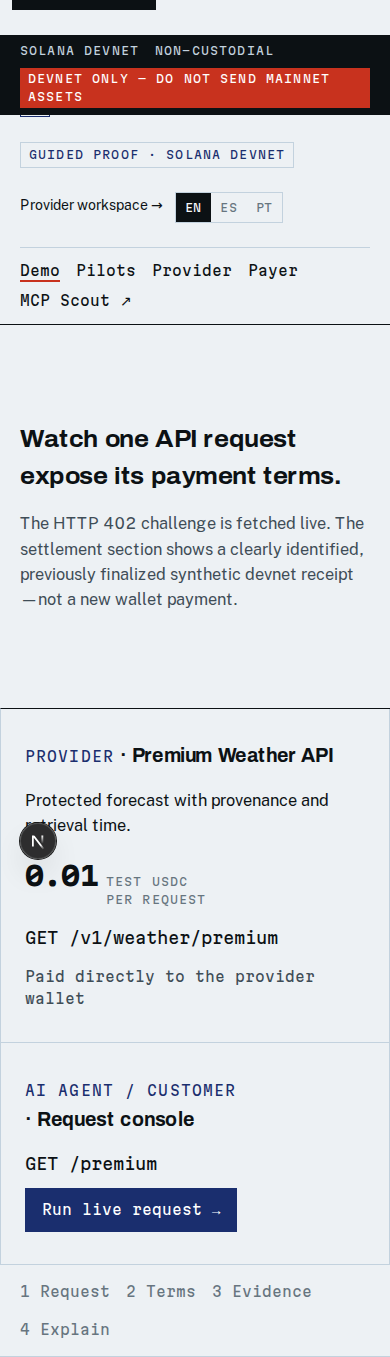
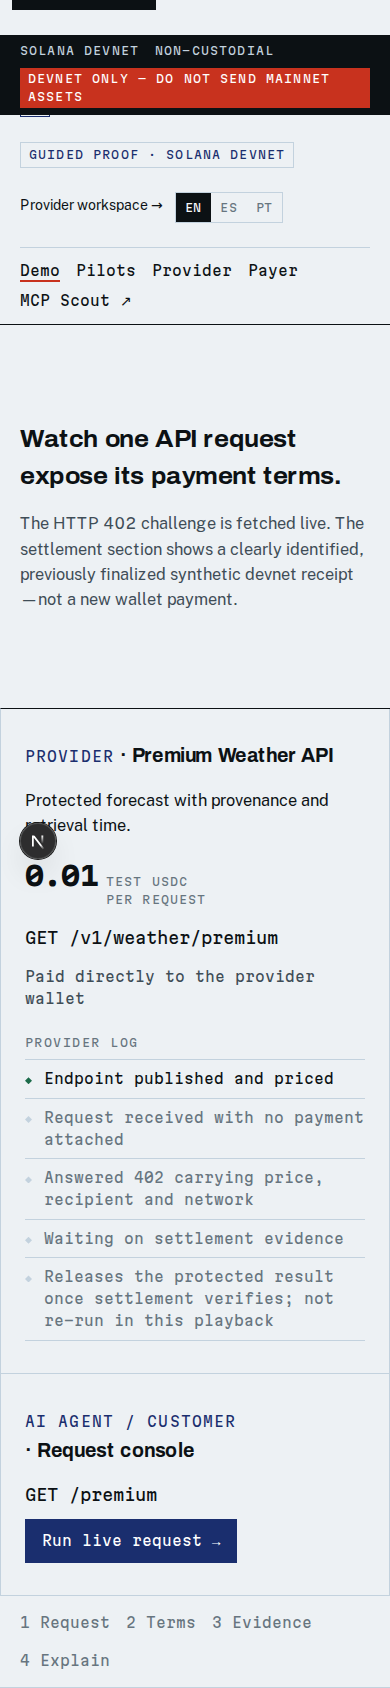
feat(demo): give the provider its half of the exchange
The walkthrough presented a two-party protocol while only one party carried
state: the agent pane accumulated phases and the provider pane stayed a
static description, leaving roughly 600px of empty field beside it at
desktop. The emptiness was the symptom; the missing half was the cause.

The provider pane now runs its own log of the same exchange — published,
request received unpaid, answered 402, waiting on settlement, releases on
verification. Each line is gated on real state rather than an assumed
timeline, so an error after the 402 correctly leaves the answered line lit.

The final line names what the provider does (release on verified settlement)
instead of restating the agent's receipt match, which would have said the
same thing twice on one screen, and carries the playback caveat so the pane
never implies a fresh release.

Panes now measure equal height at 1440; the demo still stacks cleanly at 390.

Changed region(s): [[0.0, 0.0, 1.0, 0.9904], [0.9846, 0.4333, 1.0, 0.5262], [0.9846, 0.9285, 1.0, 0.9595]]

diff --git a/apps/web/app/demo/page.tsx b/apps/web/app/demo/page.tsx
@@ -69,6 +69,14 @@ const copy = {
     error: "The proof could not be completed.",
     retry: "Retry",
     steps: ["1 Request", "2 Terms", "3 Evidence", "4 Explain"],
+    log: "Provider log",
+    logLines: [
+      "Endpoint published and priced",
+      "Request received with no payment attached",
+      "Answered 402 carrying price, recipient and network",
+      "Waiting on settlement evidence",
+      "Releases the protected result once settlement verifies; not repeated in this playback",
+    ],
   },
   es: {
     badge: "Prueba guiada · Solana Devnet",
@@ -105,6 +113,14 @@ const copy = {
     error: "No se pudo completar la prueba.",
     retry: "Reintentar",
     steps: ["1 Solicitud", "2 Condiciones", "3 Evidencia", "4 Explicación"],
+    log: "Registro del proveedor",
+    logLines: [
+      "Endpoint publicado y con precio",
+      "Solicitud recibida sin pago adjunto",
+      "Respondió 402 con precio, destinatario y red",
+      "Esperando evidencia de liquidación",
+      "Entrega el resultado protegido con la liquidación verificada; no se repite en este playback",
+    ],
   },
   "pt-BR": {
     badge: "Prova guiada · Solana Devnet",
@@ -141,6 +157,14 @@ const copy = {
     error: "Não foi possível completar a prova.",
     retry: "Tentar novamente",
     steps: ["1 Requisição", "2 Condições", "3 Evidência", "4 Explicação"],
+    log: "Registro do provedor",
+    logLines: [
+      "Endpoint publicado e com preço",
+      "Requisição recebida sem pagamento anexado",
+      "Respondeu 402 com preço, destinatário e rede",
+      "Aguardando evidência de liquidação",
+      "Entrega o resultado protegido com a liquidação verificada; não repetido neste playback",
+    ],
   },
 } as const;
 
@@ -299,6 +323,35 @@ export default function DemoPage() {
             {text.paidTo}{" "}
             {requirement ? short(requirement.payTo) : "the provider wallet"}
           </small>
+
+          {/* The exchange has two parties, so the provider carries state too.
+              Each line is gated on real state, never on an assumed timeline:
+              an error after the 402 leaves the answered line lit, correctly. */}
+          <div className="providerLog">
+            <span className="label">{text.log}</span>
+            <ol className="paymentTimeline">
+              {text.logLines.map((line, index) => (
+                <li
+                  key={line}
+                  className={
+                    [
+                      true,
+                      phase !== "idle",
+                      Boolean(requirement),
+                      phase === "validating" ||
+                        phase === "settled" ||
+                        phase === "unlocked",
+                      Boolean(receipt),
+                    ][index]
+                      ? "done"
+                      : ""
+                  }
+                >
+                  {line}
+                </li>
+              ))}
+            </ol>
+          </div>
         </article>
         <article className="persona agentPane">
           <h2>

diff --git a/apps/web/app/styles.css b/apps/web/app/styles.css
@@ -1742,6 +1742,17 @@ footer {
   color: var(--ink-3);
 }
 
+/* Provider-side log: the other half of the exchange, same register grammar. */
+.providerLog {
+  display: grid;
+  gap: var(--s-2);
+  margin-top: var(--s-2);
+}
+
+.persona {
+  align-content: start;
+}
+
 .requestLine {
   display: flex;
   flex-wrap: wrap;
